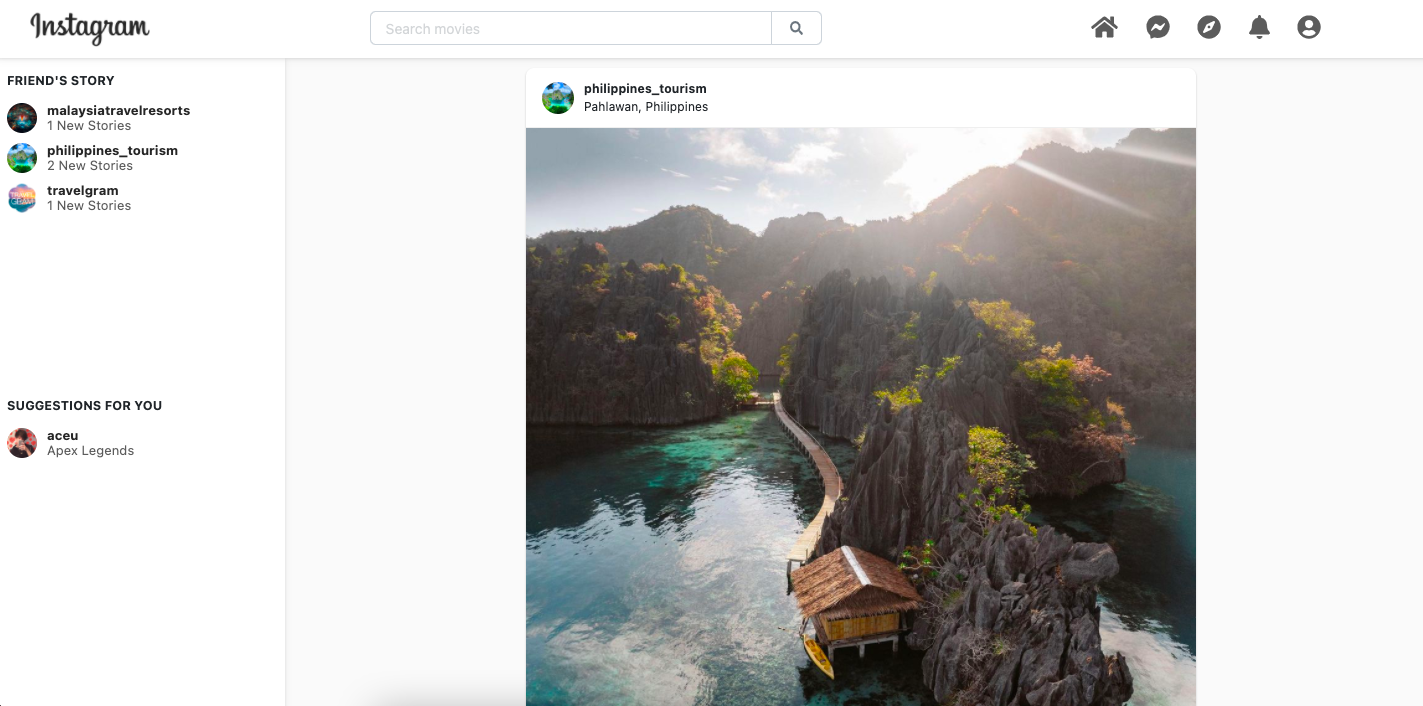
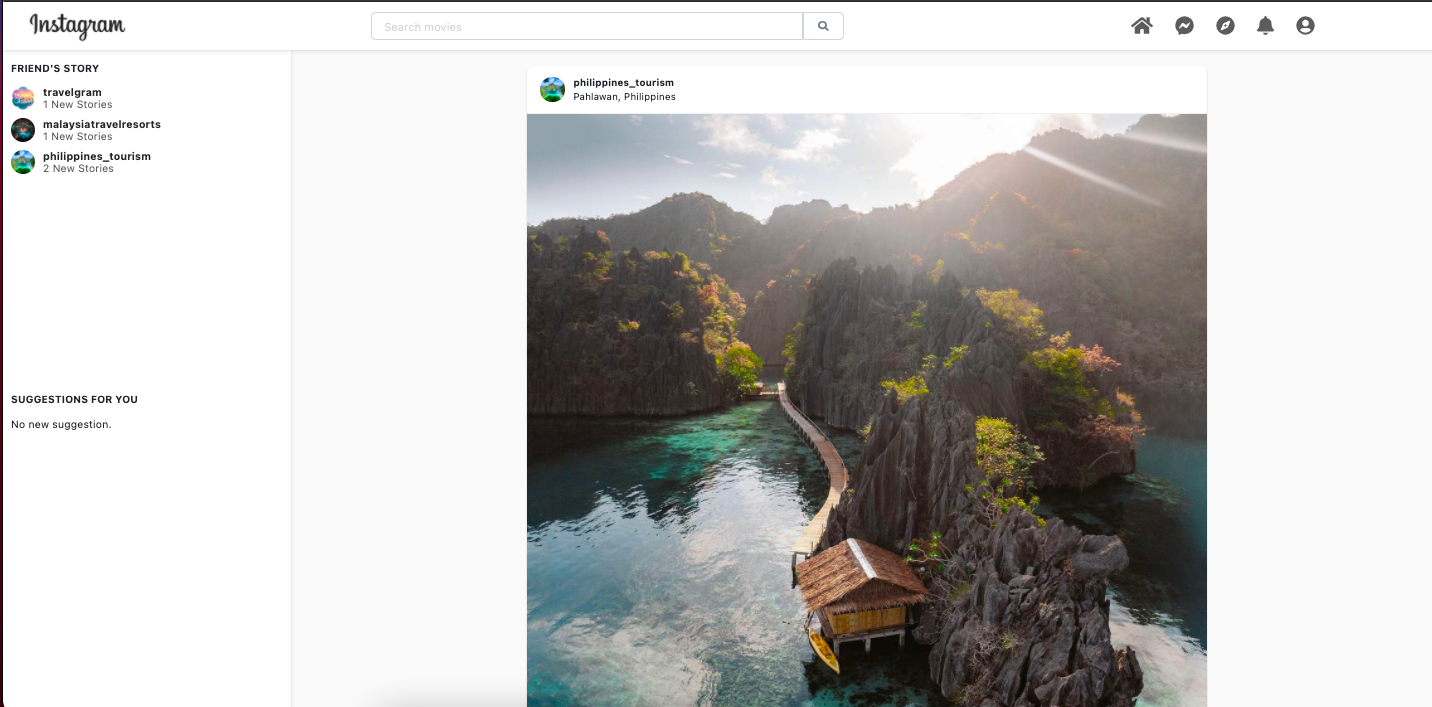
Changes on sidebar and clone image

diff --git a/frontend/src/components/content/sidebar.jsx b/frontend/src/components/content/sidebar.jsx
@@ -118,49 +118,11 @@ function Sidebar() {
                             <div className="position-relative transition-group">
                                 <div className="transition-start">
                                     <div className="side-nav-card align-items-center d-flex position-relative">
-                                        <a
-                                            href="/"
-                                            className="side-nav-card__link align-items-center d-flex flex-nowrap w-100 py-2 px-3 position-relative">
-                                            <div className="side-nav-card__avatar align-items-center flex-shrink-0">
-                                                <figure aria-label="aceu" className="avatar avatar--size-30 m-0">
-                                                    <img
-                                                        className="d-block rounded-circle image image-avatar w-100"
-                                                        alt="aceu"
-                                                        src="https://static-cdn.jtvnw.net/jtv_user_pictures/c7a4c96e-a434-4dfa-9bcf-6190995dd536-profile_image-70x70.png"
-                                                    />
-                                                </figure>
-                                            </div>
+                                        <div className="side-nav-card__link align-items-center d-flex flex-nowrap w-100 py-2 px-3 position-relative">
                                             <div className="tw-ellipsis d-flex w-100 justify-content-between">
-                                                <div className="tw-ellipsis w-100 ml-3">
-                                                    <div className="side-nav-card__title align-items-center d-flex">
-                                                        <p
-                                                            className="m-0 tw-c-text-alt tw-ellipsis flex-grow-1 tw-font-size-5 tw-line-height-heading font-weight-bold font-color-primary"
-                                                            title="aceu">
-                                                            aceu
-                                                        </p>
-                                                    </div>
-                                                    <div
-                                                        className="side-nav-card__metadata tw-pd-r-05"
-                                                        data-a-target="side-nav-game-title">
-                                                        <p
-                                                            className="m-0 tw-c-text-alt-2 tw-ellipsis tw-font-size-6 tw-line-height-heading font-color-secondary"
-                                                            title="Apex Legends">
-                                                            Apex Legends
-                                                        </p>
-                                                    </div>
-                                                </div>
-                                                {/* <div className="side-nav-card__live-status flex-shrink-0 ml-5">
-                                                                        <div className="align-items-center d-flex">
-                                                                            <div className="tw-border-radius-rounded tw-channel-status-indicator tw-channel-status-indicator--live tw-channel-status-indicator--small d-inline-block position-relative"></div>
-                                                                            <div className="ml-5">
-                                                                                <span className="tw-c-text-alt tw-font-size-6">
-                                                                                    2 New Stories
-                                                                                </span>
-                                                                            </div>
-                                                                        </div>
-                                                                    </div> */}
+                                                <div className="tw-ellipsis w-100">No new suggestion.</div>
                                             </div>
-                                        </a>
+                                        </div>
                                     </div>
                                 </div>
                             </div>
